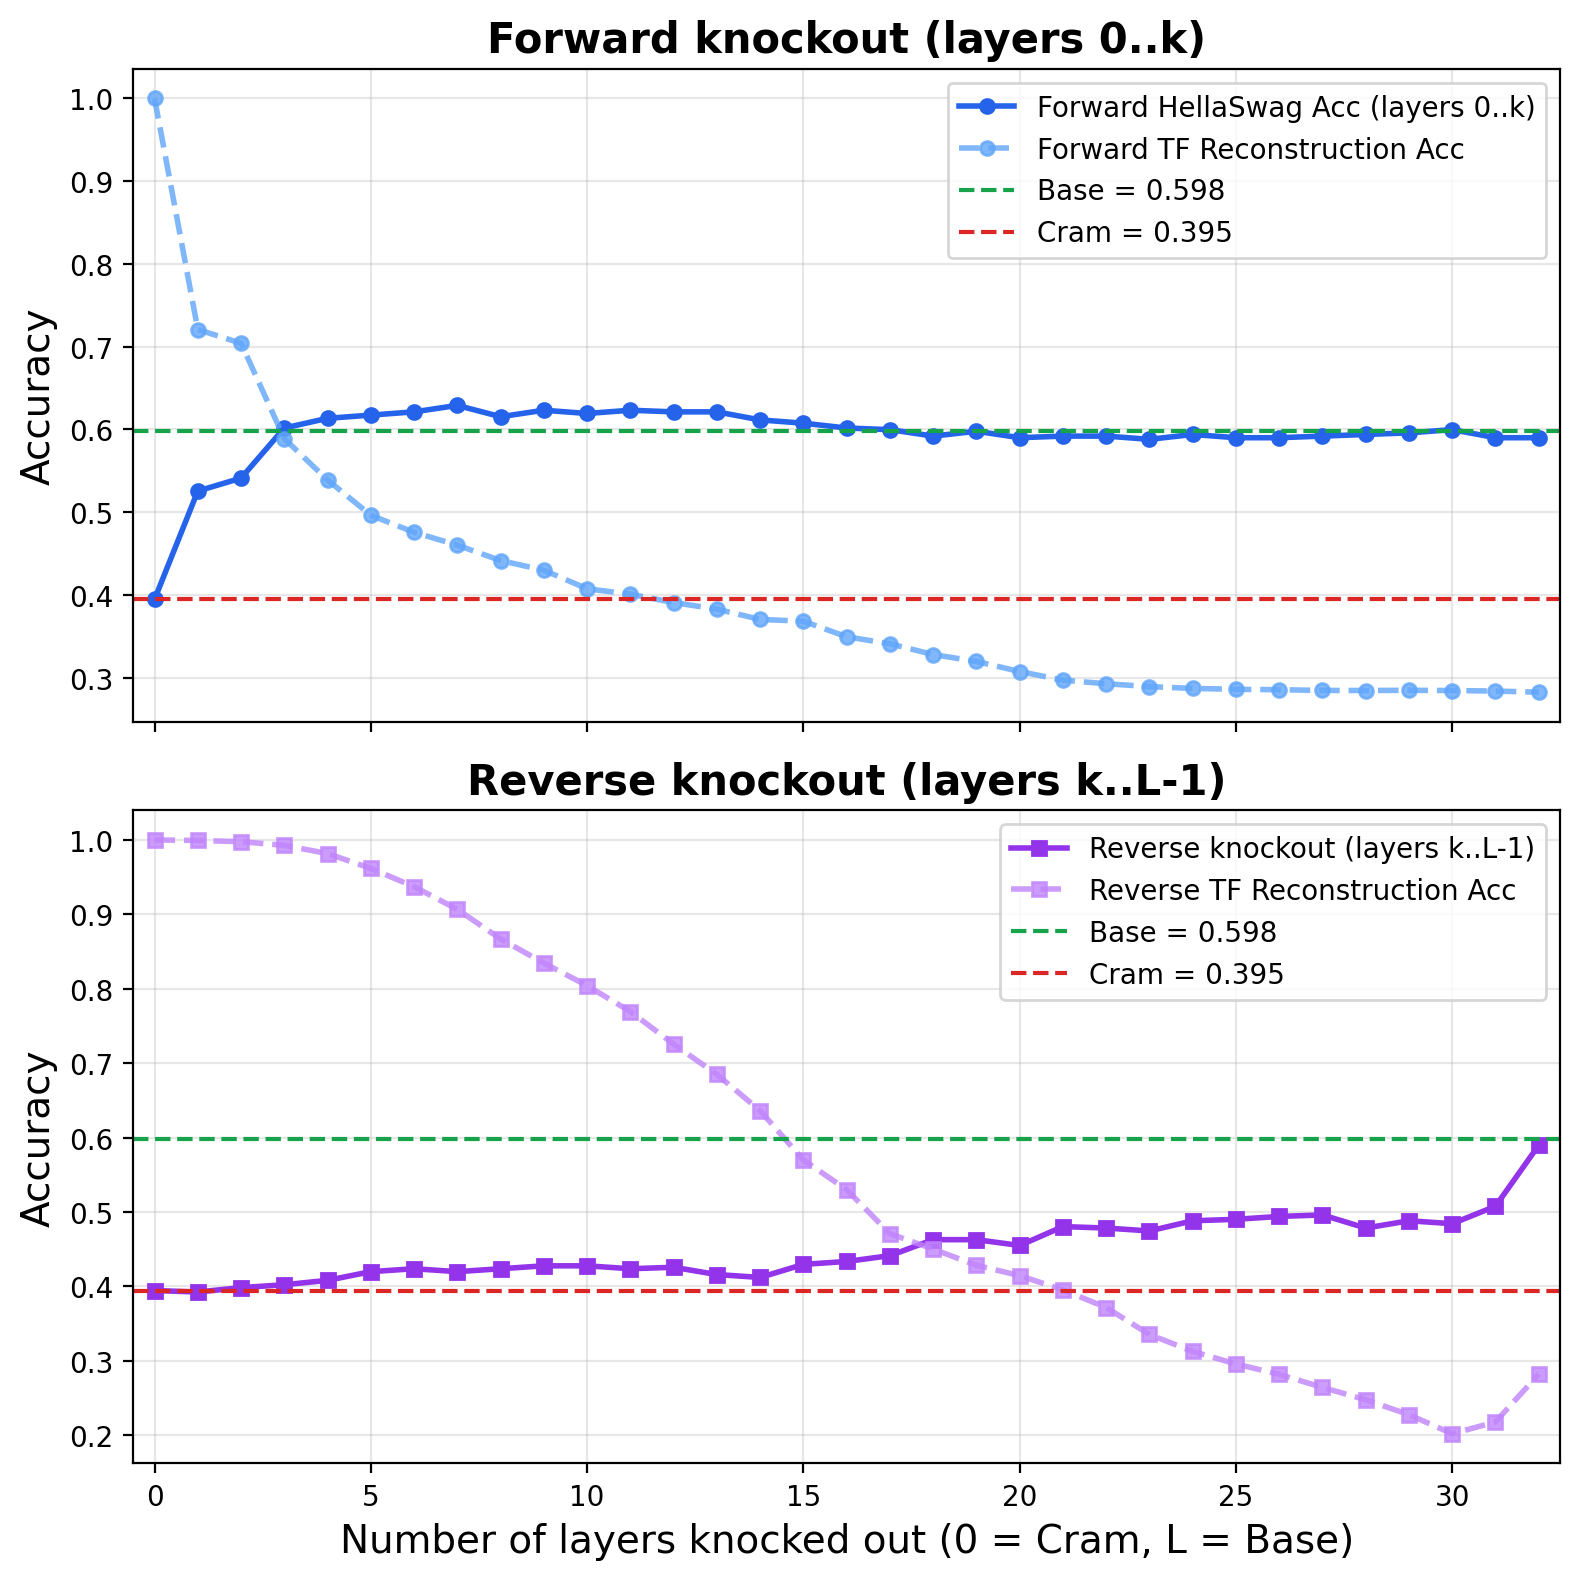
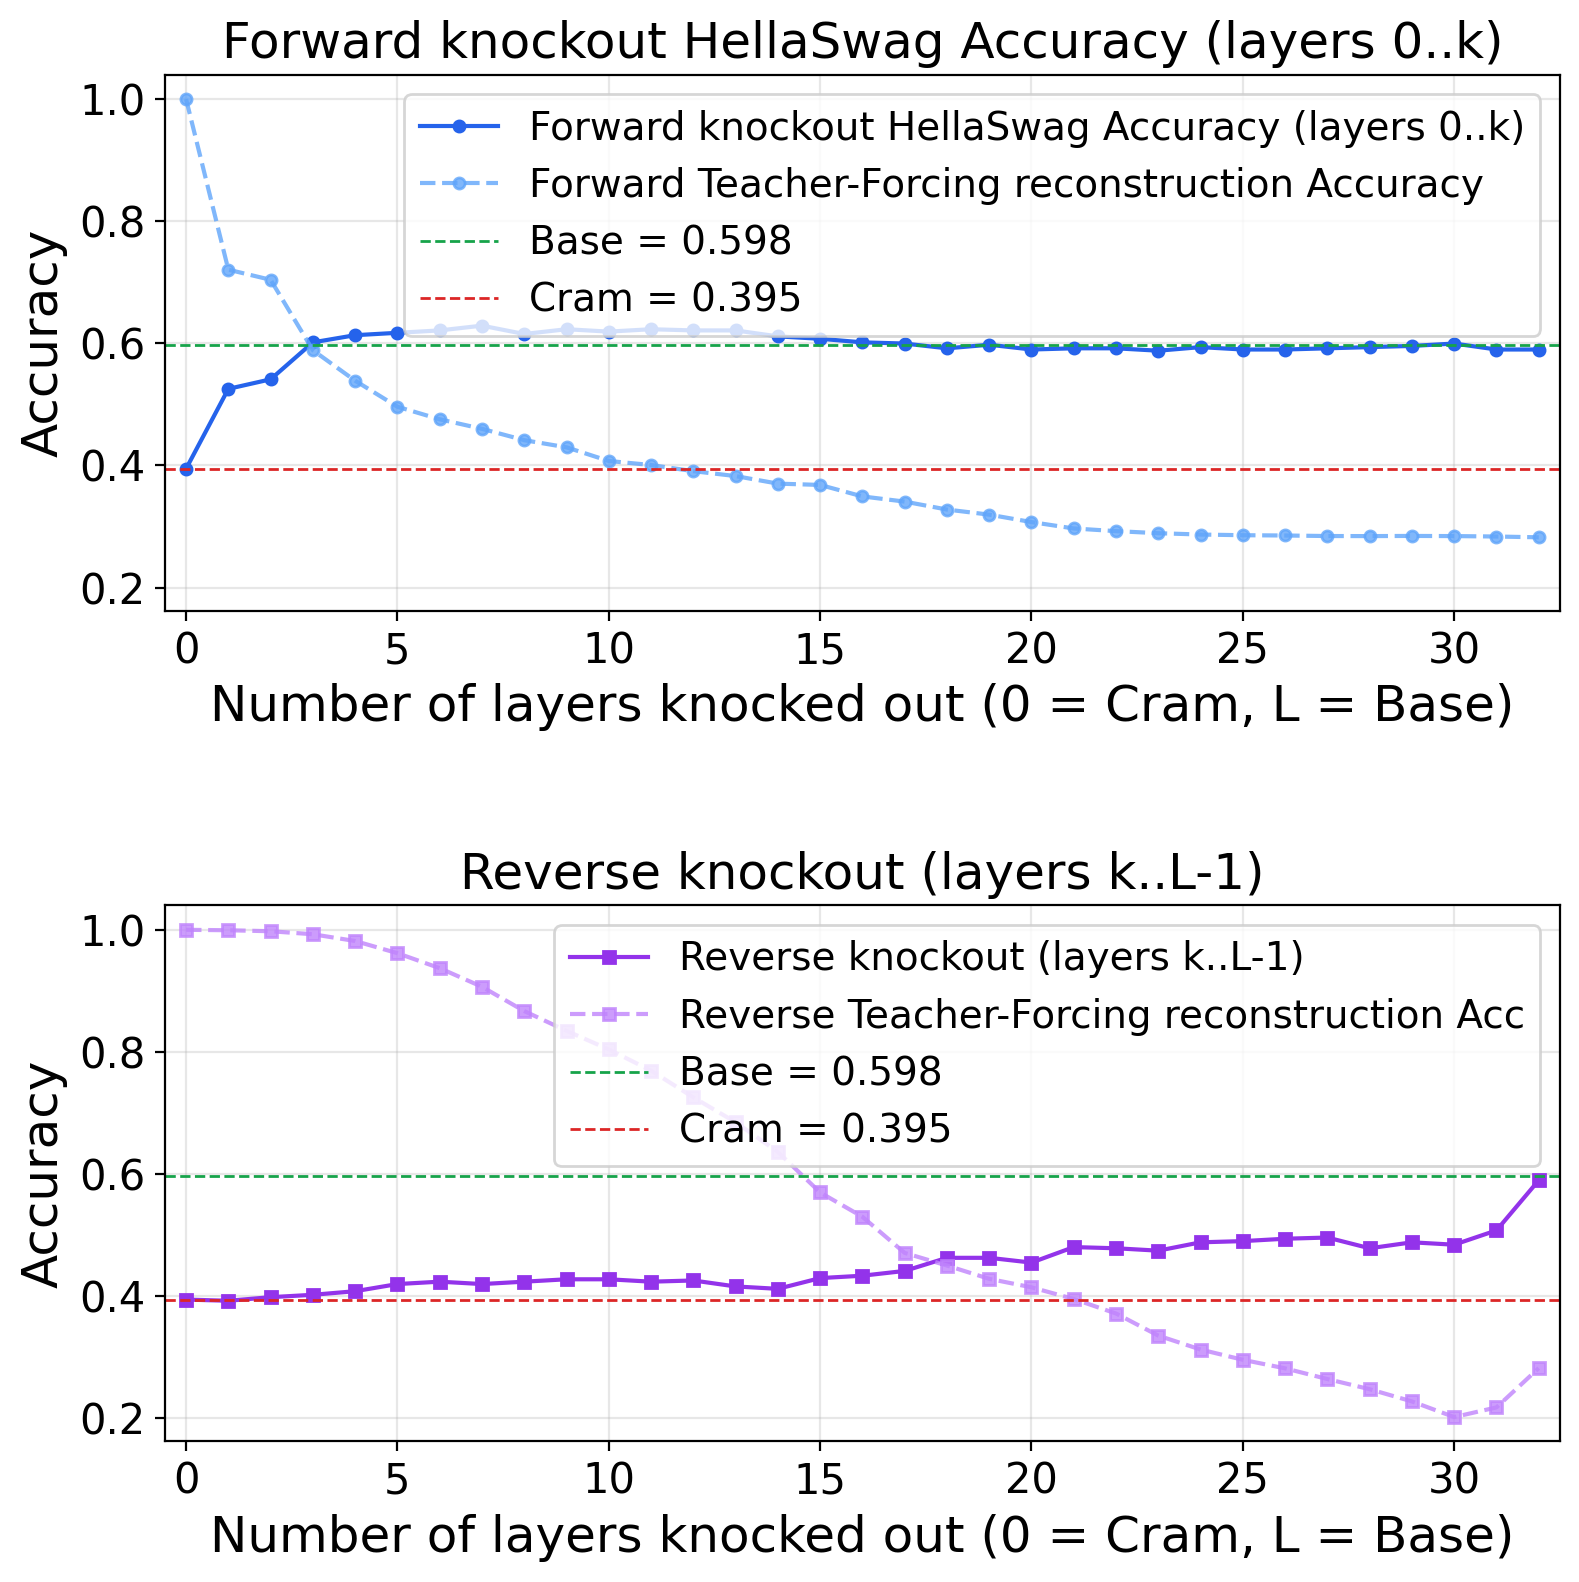
feat: add --poster flag to attention knockout figure script
Adds vertical layout support (2×1, 8×8, 200 DPI) to
plot_cumulative_knockout and wires it via --poster in
figures_attention_knockout.py for poster figure generation.

Changed region(s): [[0.0, 0.0, 0.993, 0.9924], [0.2172, 0.3101, 0.2793, 0.3411]]

diff --git a/scripts/paper/figures_attention_knockout.py b/scripts/paper/figures_attention_knockout.py
@@ -13,6 +13,10 @@ Reads a HellaSwag evaluation ``results.json`` that contains an
 Defaults target the Llama-3.1-8B run reported in the paper. Regenerate with:
 
     python scripts/paper/figures_attention_knockout.py
+
+For the poster (vertical layout, PNG at 200 DPI):
+
+    python scripts/paper/figures_attention_knockout.py --poster
 """
 from __future__ import annotations
 
@@ -27,6 +31,7 @@ from bench_hs_results import (
 
 DEFAULT_RESULTS = "artifacts/hellaswag_evaluation/" "hellaswag_Meta-Llama-3.1-8B_samples_512_lr_0.1_batch_128/results.json"
 DEFAULT_FIGDIR = "paper/figures"
+DEFAULT_POSTER_FIGDIR = "poster/images"
 DEFAULT_LABEL = "Llama-3.1-8B"
 
 
@@ -35,9 +40,22 @@ def main() -> int:
     parser.add_argument("--results", default=DEFAULT_RESULTS, help="results.json with intervention_summary")
     parser.add_argument("--figdir", default=DEFAULT_FIGDIR, help="output directory for the PDFs")
     parser.add_argument("--model-label", default=DEFAULT_LABEL, help="model label for plot titles")
+    parser.add_argument("--poster", action="store_true", help="generate vertical PNG for poster instead of paper PDFs")
     args = parser.parse_args()
 
     data = load_intervention_results(args.results)
+
+    if args.poster:
+        figdir = Path(args.figdir) if args.figdir != DEFAULT_FIGDIR else Path(DEFAULT_POSTER_FIGDIR)
+        figdir.mkdir(parents=True, exist_ok=True)
+        plot_cumulative_knockout(
+            data,
+            str(figdir / "attention_knockout_cumulative_vertical.png"),
+            model_label=args.model_label,
+            vertical=True,
+        )
+        return 0
+
     figdir = Path(args.figdir)
     figdir.mkdir(parents=True, exist_ok=True)
 

diff --git a/scripts/paper/bench_hs_results.py b/scripts/paper/bench_hs_results.py
@@ -568,6 +568,7 @@ def plot_cumulative_knockout(
     data: Dict,
     output_path: str,
     model_label: Optional[str] = None,
+    vertical: bool = False,
 ) -> None:
     """Cumulative knockout curve: x=number of layers knocked out (0..L), y=accuracy.
 
@@ -598,7 +599,10 @@ def plot_cumulative_knockout(
     base_acc = data.get("baseline", {}).get("accuracy")
     cram_acc = data.get("compressed", {}).get("accuracy")
 
-    fig, (ax_fwd, ax_rev) = plt.subplots(1, 2, figsize=(16, 4), sharey=True)
+    if vertical:
+        fig, (ax_fwd, ax_rev) = plt.subplots(2, 1, figsize=(8, 8), sharey=True)
+    else:
+        fig, (ax_fwd, ax_rev) = plt.subplots(1, 2, figsize=(16, 4), sharey=True)
 
     # --- Left subplot: Forward cumulative knockout (layers 0..k) ---
     if has_forward:
@@ -671,6 +675,8 @@ def plot_cumulative_knockout(
     if cram_acc is not None:
         ax_rev.axhline(y=cram_acc, color="#dc2626", linestyle="--", linewidth=1, label=f"Cram = {cram_acc:.3f}")
     ax_rev.set_xlabel("Number of layers knocked out (0 = Cram, L = Base)", fontsize=18)
+    if vertical:
+        ax_rev.set_ylabel("Accuracy", fontsize=18)
     ax_rev.set_xlim(-0.5, num_layers + 0.5)
     ax_rev.set_title("Reverse knockout (layers k..L-1)", fontsize=18)
     ax_rev.tick_params(labelsize=15)
@@ -678,7 +684,9 @@ def plot_cumulative_knockout(
     ax_rev.grid(True, alpha=0.3)
 
     fig.tight_layout()
-    fig.savefig(output_path, dpi=150, bbox_inches="tight")
+    if vertical:
+        fig.subplots_adjust(hspace=0.55)
+    fig.savefig(output_path, dpi=200 if vertical else 150, bbox_inches="tight")
     plt.close(fig)
     print(f"Saved cumulative knockout plot to {output_path}")
 